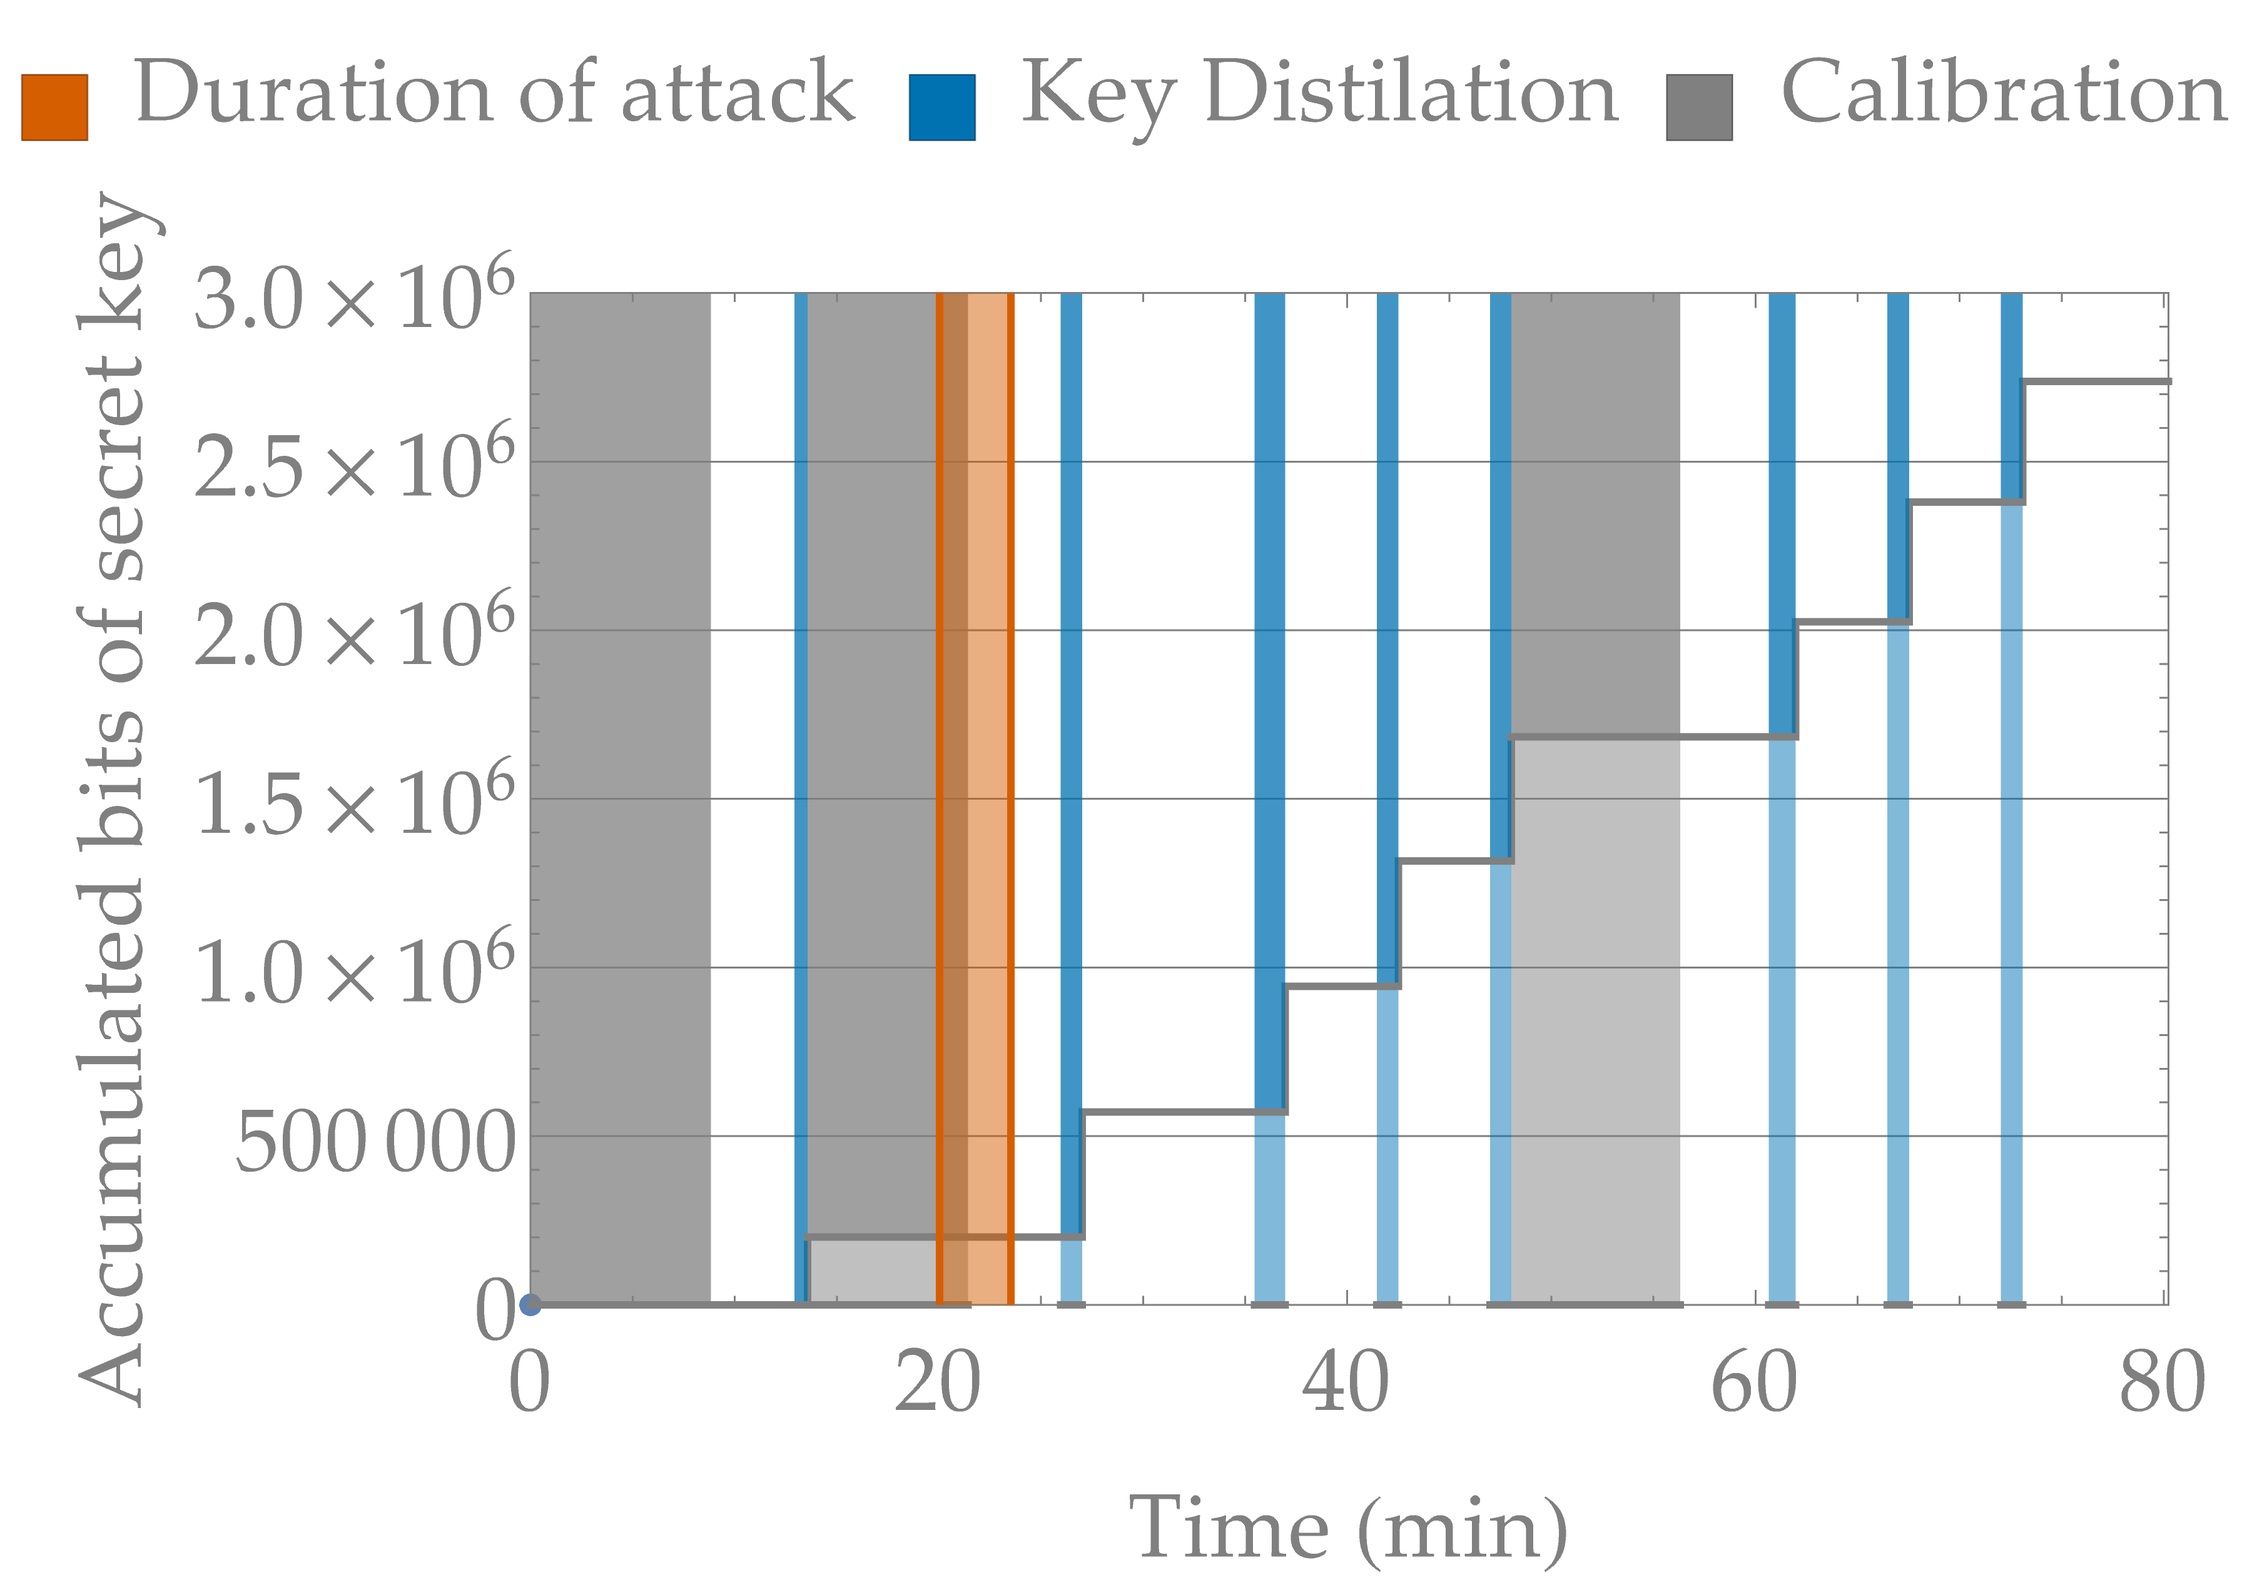
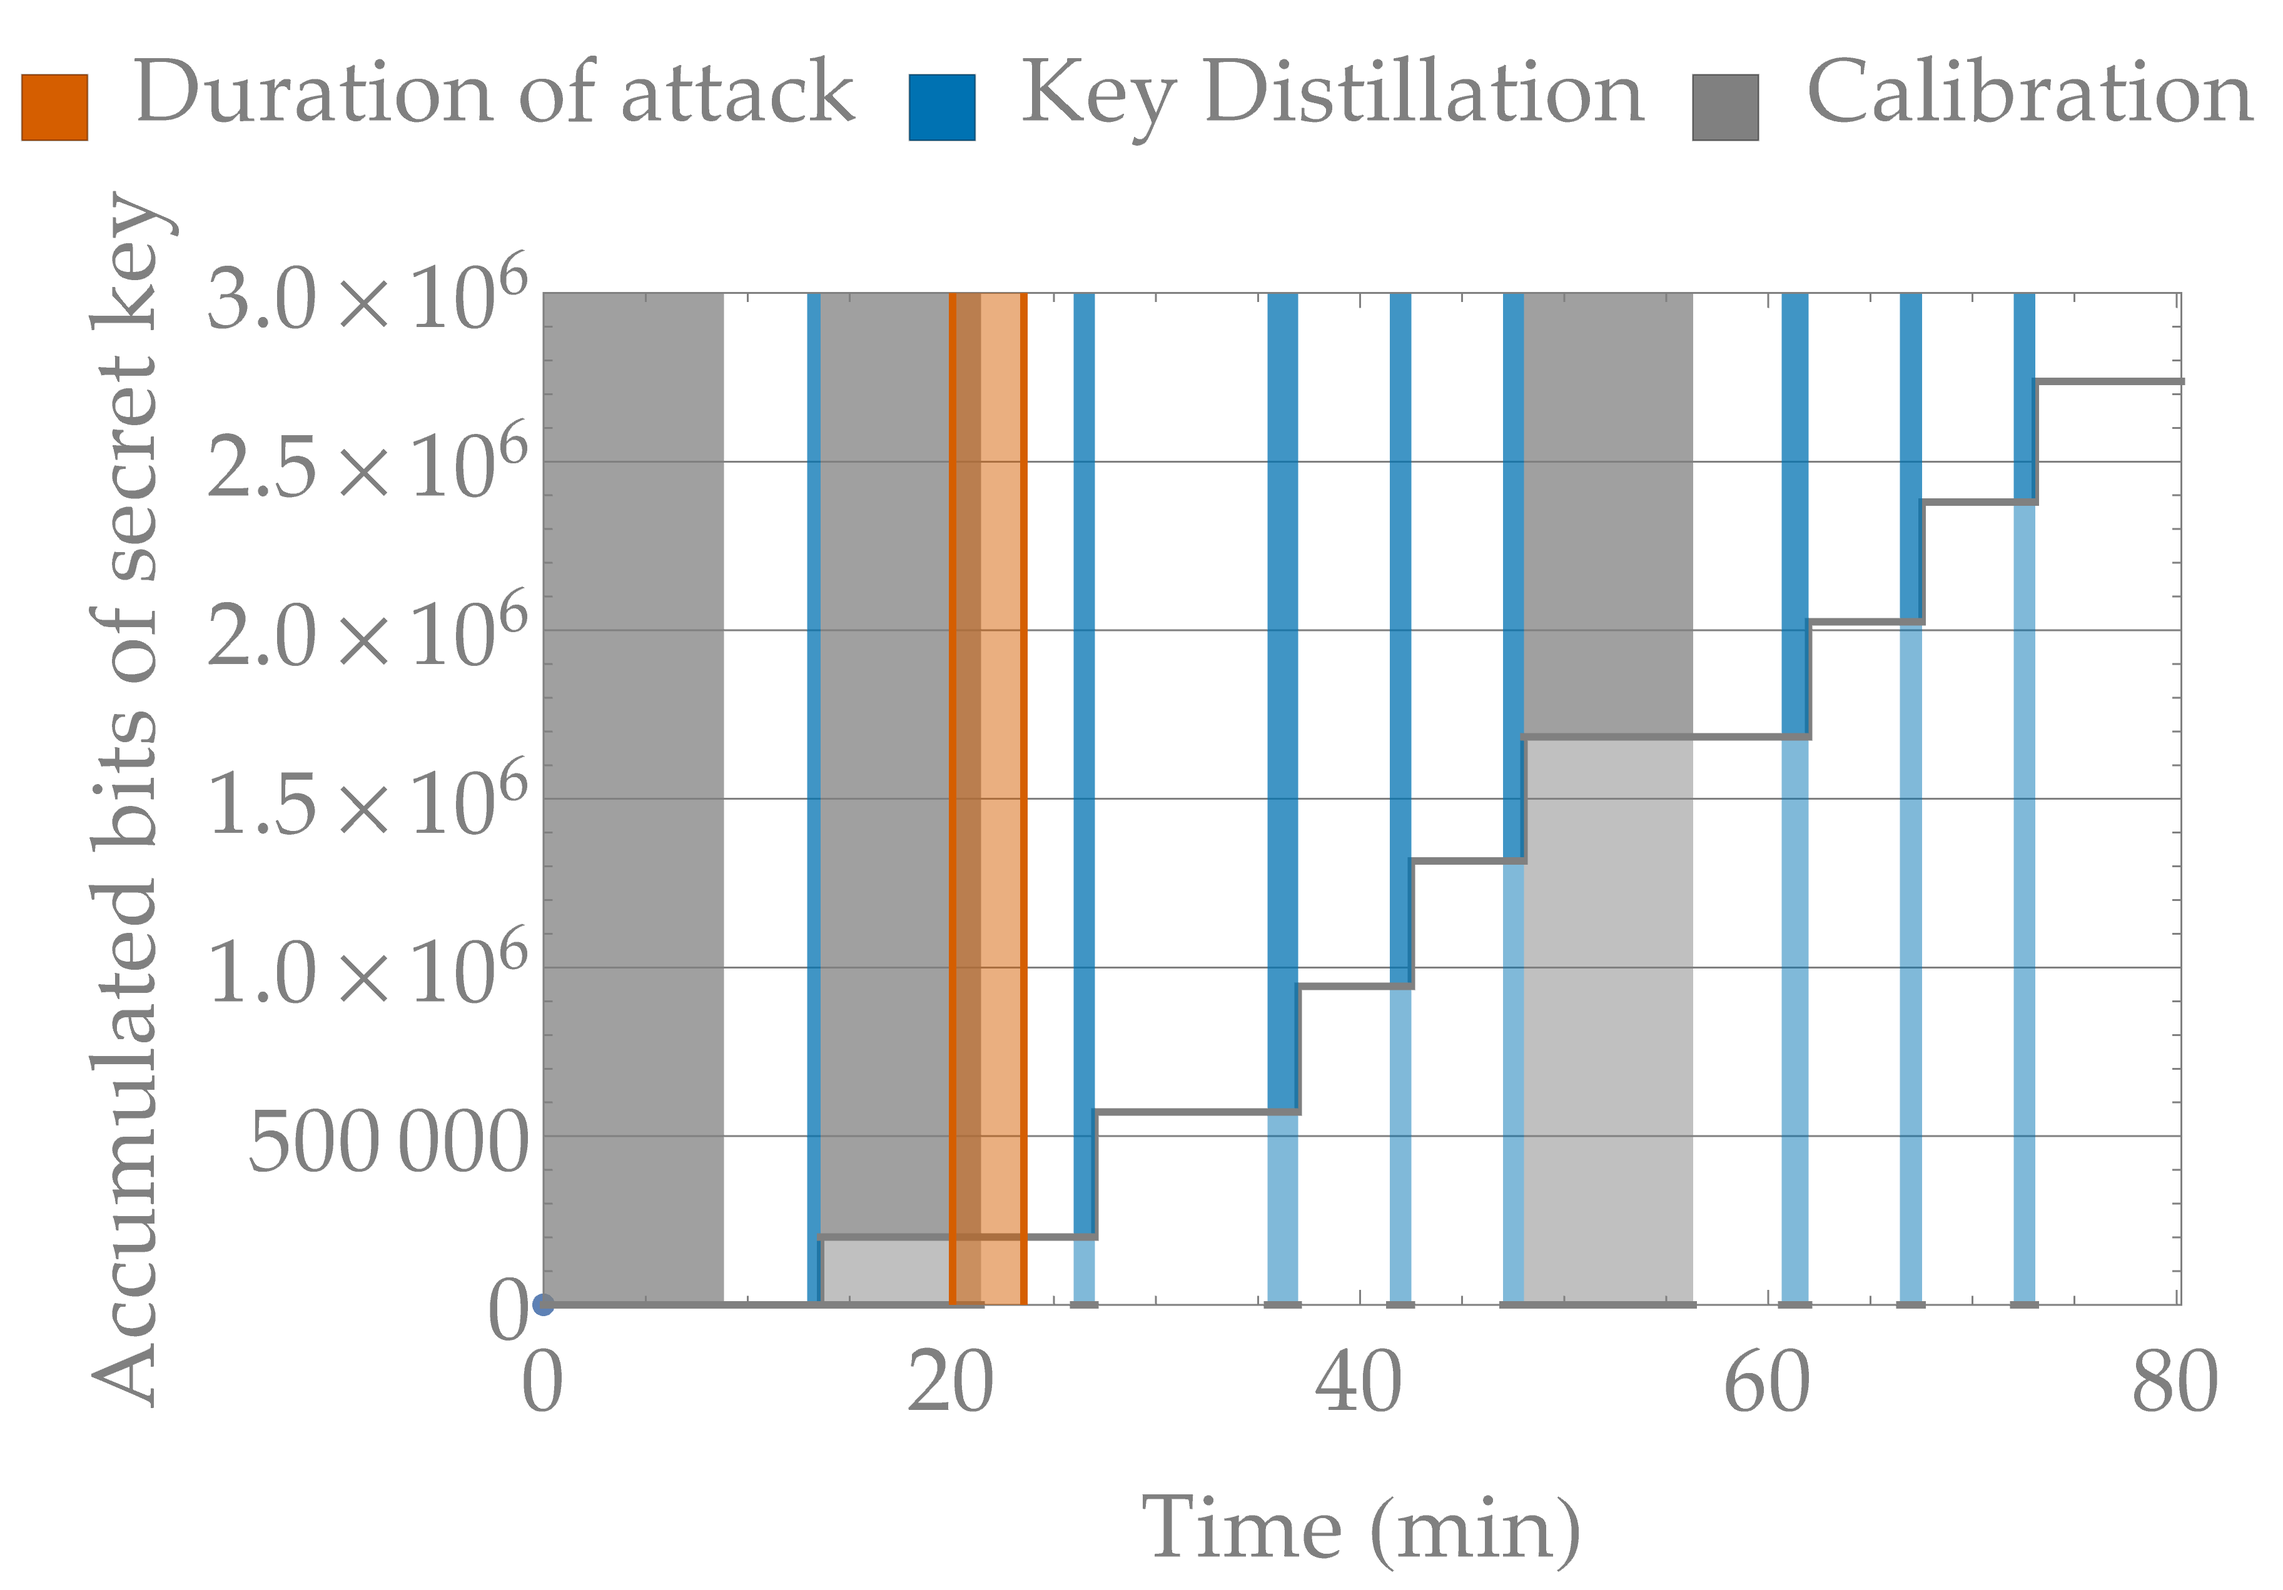
adding some changes from pratice 1

diff --git a/research/talks/thesis_defense/index.html b/research/talks/thesis_defense/index.html
@@ -151,6 +151,8 @@
 						<a href="http://doi.org/bdnw">					
 								doi:10/3d6
 						</a>
+						Note:
+						Mention bob is polarization analyzer
 					</script>
 				</section>
 
@@ -159,7 +161,7 @@
 					<script type="text/template">
 						## QKD performance ##
 				
-						- Security of transmission is tested with the quantum bit error rate: `\[\text{QBER} = \frac{n_{\text{wrong}}}{n_{\text{wrong}}+n_{\text{right}}}\]`	
+						- Security of transmission is tested with the quantum bit error rate (sifted key): `\[\text{QBER} = \frac{n_{\text{wrong}}}{n_{\text{wrong}}+n_{\text{right}}}\]`	
 						- Required key generation threshold `$\text{QBER}\lesssim  10\%$`
 						
 						Note:
@@ -173,7 +175,7 @@
 				<section>
 						<h2> Why don't we all have quantum keys? </h2>
 						<ol>
-							<li><p class="fragment"> Distance/Loss </p></li>
+							<li><p class="fragment"> Distance/Loss: O(300) km</p></li>
 							<li><p class="fragment"> Hardware developments </p></li> 
 							<li><p class="fragment"> Realistic device security models </p></li>
 						<ol>
@@ -220,12 +222,15 @@
 
 <!--==================================================================================-->
 				<section>
-						<h2> How to make them and how to break them </h2>
-						<ol>
-							<li><p class="fragment">Distance &rarr;<br> <span style="color: #fb3550;">Risk assessment for airborne QKD </span></p></li>
-							<li><p class="fragment">Hardware  &rarr;<br> <span style="color: #fb3550;">Robust quantum optical components </span></p></li>						   
-							<li><p class="fragment">Security models &rarr;<br> <span style="color: #fb3550;">Novel laser damage attack on commercial system</span></p></li>
-						<ol>
+					<h2> How to make them and how to break them </h2>
+					<ol>
+						<li><p class="fragment">Distance &rarr;<br> <span style="color: #fb3550;">Modeling for airborne QKD </span></p></li>
+						<li><p class="fragment">Hardware  &rarr;<br> <span style="color: #fb3550;">Robust quantum optical components </span></p></li>						   
+						<li><p class="fragment">Security models &rarr;<br> <span style="color: #fb3550;">Novel laser damage attack on commercial system</span></p></li>
+					<ol>
+					<aside class="notes">
+        				what is physics in each, I DID COOL SHIT
+    				</aside>
 				</section>
 <!--==================================================================================-->
 				<section>
@@ -236,9 +241,12 @@
 				<section>
 					<h2>Risk assessment</h2>
 					<div style="text-align: left;">
-						<h5 style="color: #fb3550; display: inline;">GOAL:</h5> establish a QKD link with parameters representative of a modeled satellite pass.<br style="line-height: 200%;">
-						<h5 style="color: #fb3550; display: inline;">CONSTRAINTS:</h5> minimize probability of mission failure. <br style="line-height: 200%;">
-						<h5 style="color: #fb3550; display: inline;">METRICS:</h5> <i>Link time</i>, angular velocity, and total number of collected photons.  
+						<h5 style="color: #fb3550; display: inline;">GOAL:</h5> establish a QKD link with parameters representative of a modeled, night satellite pass.<br style="line-height: 200%;">
+						<!-- <h5 style="color: #fb3550; display: inline;">CONSTRAINTS:</h5> minimize probability of mission failure. <br style="line-height: 200%;"> -->
+						<h5 style="color: #fb3550; display: inline;">METRICS:</h5> 
+						<br><i>Link time</i> [s] &rarr; O(250)
+						<br> angular velocity [&#730;/sec] &rarr; {0.7,1.2}
+						<br> Raw key rate &rarr; O(kHz)
 					</div>
 				</section>
 
@@ -283,7 +291,7 @@
 <!--==================================================================================-->
 				<section >	
 					<h2>Transmitter placement results</h2>
-					<img style="width: 130%" src="figures/results-table.png" alt="Results">
+					<img class="stretch" src="figures/results-table.png" alt="Results">
 				</section>
 <!--==================================================================================-->
 				<section >	
@@ -314,6 +322,11 @@
 					<h3>robust devices up to the task</h3>
 				</section>
 <!--==================================================================================-->
+				<section>
+						<h3>One approach: <br> QKD receiver satellite </h3>
+						<img data-src="figures/reciever_schematic.png" alt="Reciever payload schematic">
+				</section>
+<!--==================================================================================-->		
 				<section>	
 					<h2>Single photon detector unit</h2>
 					<div class="two-col-container">
@@ -340,6 +353,8 @@
 						Operating temp: -20 C, 27V over breakdown,25 mV threshold  
 						Note:
 						1-1/e=63.2% full
+						Note:
+						what are important for sat 
 					</script>
 				</section>
 <!--==================================================================================-->
@@ -354,6 +369,9 @@
 							<img data-src="figures/comp-ioa-photo.jpg" alt="IOA photo">
 						</div>
 					</div>
+					<aside class="notes">
+        				This is "Bob". 
+    				</aside>
 				</section>
 <!--==================================================================================-->
 				<section  data-markdown>
@@ -374,6 +392,8 @@
 						| Average QBER                    | 3.14%                         |
 						| Finite size secure key length   | 16.3 kbits = <br>65 AES 256 keys|
 						|                   |             |
+						Note:
+						what is AES? symmetric key cypher
 					</script>
 				</section>	
 <!--==================================================================================-->
@@ -388,11 +408,15 @@
 							<img data-src="figures/comp-apt-integration-photo.jpg" alt="Geometry model">
 						</div>
 					</div>
+					<aside class="notes">
+        				lowest order adaptive optics, beam steering. extensive testing and characterization. 
+    				</aside>
 				</section>
 <!--==================================================================================-->
 				<section>
-					<!-- <h2>Algorithms </h2> -->
-						<div class="two-col-container">
+								<h2>QBER</h2>
+								<img data-src="figures/comp-apt-phase2-qber.png" alt="QBER">
+<!-- 						<div class="two-col-container">
 							<div class="left-col" style="width: 50%">
 							Total Counts
 								<img data-src="figures/comp-apt-phase2-counts.png" alt="counts">
@@ -405,7 +429,7 @@
 						</div>
 						<div align="center">
 						 Secret key<br>
-						<img style="width: 50%" src="figures/comp-apt-phase2-seckey.png" alt="secret key"></div>
+						<img style="width: 50%" src="figures/comp-apt-phase2-seckey.png" alt="secret key"></div>  -->
 				</section>
 
 <!--==================================================================================-->
@@ -477,7 +501,8 @@ s
 					<script type="text/template">
 						### Laser damage attack ###
 						<img data-src="figures/ldsetup.png" alt="Setup diagram for laser damage attack">
-						
+					Note:
+					say EDFA, plug and play, phase encoding.
 					</script>
 				</section>
 <!--==================================================================================-->

diff --git a/research/talks/thesis_defense/css/theme/blood.css b/research/talks/thesis_defense/css/theme/blood.css
@@ -9,23 +9,8 @@
  * For other themes, change $codeBackground accordingly.
  *
  */
-@import url(https://fonts.googleapis.com/css?family=Ubuntu:300,700,300italic,700italic);
 @import 'https://fonts.googleapis.com/css?family=Lato';
-@import url("//hello.myfonts.net/count/28aa3d");
-@font-face{
-  font-family:"Palatino Linotype";
-  src:url("http://www.myfontfree.com/data/200/p/palatino-linotype/Palatino Linotype.ttf");
-}
-
-@font-face {
-    font-family: 'GillSansMTStd-Medium';
-    src: url({{ 'font-gill-sans.eot' | asset_url }});
-    src: url({{ 'font-gill-sans.eot?#iefix' | asset_url }}) format('embedded-opentype'),
-         url({{ 'font-gill-sans.woff' | asset_url }}) format('woff'),
-         url({{ 'font-gill-sans.ttf' | asset_url }}) format('truetype');
-    font-weight: normal;
-    font-style: normal;
-}
+@import 'https://fonts.googleapis.com/css?family=Droid+Serif';
 
 /*********************************************
  * GLOBAL STYLES
@@ -36,7 +21,7 @@ body {
   background-color: #222; }
 
 .reveal {
-  font-family: Palatino Linotype, "sans-serif";
+  font-family: Palatino, Palatino Linotype, URW Palladio L, "Droid Serif", "serif";
   font-size: 36px;
   font-weight: normal;
   color: #eee; }
